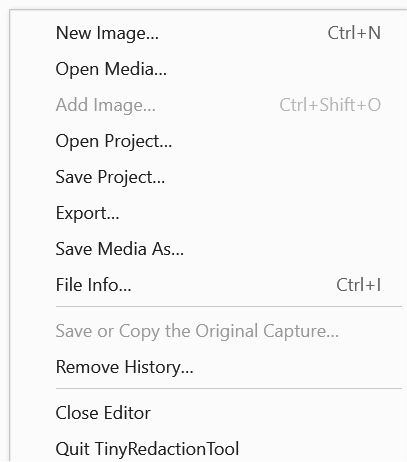
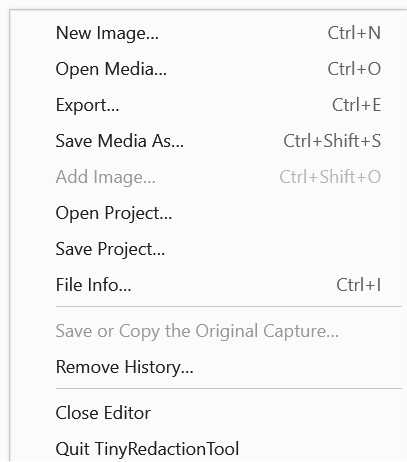
TinyRedactionTool 3.1.2: File menu order and Ctrl+O, Ctrl+E, Ctrl+Shift+S
New Image, Open Media (Ctrl+O), Export (Ctrl+E), Save Media As (Ctrl+Shift+S),
Add Image, Open Project, Save Project, File Info.

diff --git a/Desktop/MainWindow.xaml b/Desktop/MainWindow.xaml
@@ -1,5 +1,5 @@
 <Window x:Class="TinyRedaction.Desktop.MainWindow" xmlns="http://schemas.microsoft.com/winfx/2006/xaml/presentation" xmlns:x="http://schemas.microsoft.com/winfx/2006/xaml" xmlns:local="clr-namespace:TinyRedaction.Desktop"
- Title="TinyRedactionTool 3.1.1" Icon="Assets/icon.ico" Width="1240" Height="800" MinWidth="900" MinHeight="580" WindowState="Maximized" Background="{DynamicResource Background}" Foreground="{DynamicResource Foreground}" PreviewKeyDown="WindowKeyDown" AllowDrop="True" DragOver="MediaDragOver" DragEnter="MediaDragOver" Drop="MediaDropped">
+ Title="TinyRedactionTool 3.1.2" Icon="Assets/icon.ico" Width="1240" Height="800" MinWidth="900" MinHeight="580" WindowState="Maximized" Background="{DynamicResource Background}" Foreground="{DynamicResource Foreground}" PreviewKeyDown="WindowKeyDown" AllowDrop="True" DragOver="MediaDragOver" DragEnter="MediaDragOver" Drop="MediaDropped">
  <!-- Editor layout: menu bar, one row of icon buttons, options bar, workspace, status bar. -->
  <Grid>
  <DockPanel>
@@ -12,14 +12,15 @@
    <MenuItem Header="_File">
     <!-- 0.26.0 (David): a blank picture to draw on and paste onto. -->
     <MenuItem Header="_New Image…" InputGestureText="Ctrl+N" Click="NewPicture"/>
-    <MenuItem Header="_Open Media…" Click="OpenMedia"/>
+    <!-- 3.1.2 (David): this order, with Ctrl+O, Ctrl+E and Ctrl+Shift+S. -->
+    <MenuItem Header="_Open Media…" InputGestureText="Ctrl+O" Click="OpenMedia"/>
+    <MenuItem Header="_Export…" InputGestureText="Ctrl+E" Click="ExportImage" IsEnabled="{Binding IsEnabled, ElementName=ExportButton}"/>
+    <!-- 0.18.0 (David): the file as it is. -->
+    <MenuItem x:Name="SaveMediaMenuItem" Header="Save _Media As…" InputGestureText="Ctrl+Shift+S" Click="SaveMediaAs" IsEnabled="False" ToolTip="Save a Copy as It Is, Without Redactions or Edits"/>
     <!-- 0.26.1 (David): pictures onto the open one, without closing it. 0.27.0: "Add Image". -->
     <MenuItem Header="A_dd Image…" InputGestureText="Ctrl+Shift+O" Click="AddPictureFiles" IsEnabled="{Binding IsEnabled, ElementName=AddImageButton}" ToolTip="Put Images onto This One, to Move and Size"/>
     <MenuItem Header="Open _Project…" Click="OpenProject"/>
     <MenuItem x:Name="SaveProjectMenuItem" Header="_Save Project…" Click="SaveProject" IsEnabled="False"/>
-    <MenuItem Header="_Export…" Click="ExportImage" IsEnabled="{Binding IsEnabled, ElementName=ExportButton}"/>
-    <!-- 0.18.0 (David): the file as it is. -->
-    <MenuItem x:Name="SaveMediaMenuItem" Header="Save _Media As…" Click="SaveMediaAs" IsEnabled="False" ToolTip="Save a Copy as It Is, Without Redactions or Edits"/>
     <!-- 0.23.0: what is written inside the file besides the picture, and what Export removes. -->
     <MenuItem Header="File _Info…" InputGestureText="Ctrl+I" Click="ShowFileInfo"/>
     <Separator/>

diff --git a/docs/help/TRT-Help.html b/docs/help/TRT-Help.html
@@ -429,6 +429,9 @@
  <tr><td><kbd>Ctrl</kbd>+<kbd>Alt</kbd>+<kbd>B</kbd></td><td>Show or hide the capture bar</td></tr>
  <tr><td><kbd>Ctrl</kbd>+<kbd>Alt</kbd>+<kbd>E</kbd></td><td>Open the editor</td></tr>
  <tr><td><kbd>Ctrl</kbd>+<kbd>N</kbd></td><td>New image</td></tr>
+ <tr><td><kbd>Ctrl</kbd>+<kbd>O</kbd></td><td>Open a picture or video</td></tr>
+ <tr><td><kbd>Ctrl</kbd>+<kbd>E</kbd></td><td>Export</td></tr>
+ <tr><td><kbd>Ctrl</kbd>+<kbd>Shift</kbd>+<kbd>S</kbd></td><td>Save Media As (a copy of the file as it is)</td></tr>
  <tr><td><kbd>Ctrl</kbd>+<kbd>Shift</kbd>+<kbd>O</kbd></td><td>Add an image onto this one</td></tr>
  <tr><td><kbd>Ctrl</kbd>+<kbd>C</kbd> / <kbd>Ctrl</kbd>+<kbd>V</kbd></td><td>Copy the picture with its redactions / paste a picture</td></tr>
  <tr><td><kbd>Ctrl</kbd>+<kbd>Shift</kbd>+<kbd>V</kbd></td><td>Paste a picture onto this one</td></tr>

diff --git a/Desktop/MainWindow.xaml.cs b/Desktop/MainWindow.xaml.cs
@@ -973,6 +973,10 @@ public partial class MainWindow : Window
         else if (Keyboard.Modifiers == ModifierKeys.Control && e.Key == Key.N) { NewPicture(sender, e); e.Handled = true; }
         else if (Keyboard.Modifiers == ModifierKeys.None && e.Key == Key.F1) { HelpManual.Open(this); e.Handled = true; }
         else if (Keyboard.Modifiers == (ModifierKeys.Control | ModifierKeys.Shift) && e.Key == Key.O) { AddPictureFiles(sender, e); e.Handled = true; }
+        // 3.1.2 (David): Ctrl+O open, Ctrl+E export, Ctrl+Shift+S save media as; only when the menu item is on.
+        else if (Keyboard.Modifiers == ModifierKeys.Control && e.Key == Key.O) { OpenMedia(sender, e); e.Handled = true; }
+        else if (Keyboard.Modifiers == ModifierKeys.Control && e.Key == Key.E) { if (ExportButton.IsEnabled) ExportImage(sender, e); e.Handled = true; }
+        else if (Keyboard.Modifiers == (ModifierKeys.Control | ModifierKeys.Shift) && e.Key == Key.S) { if (SaveMediaMenuItem.IsEnabled) SaveMediaAs(sender, e); e.Handled = true; }
         else if (Keyboard.Modifiers.HasFlag(ModifierKeys.Control) && e.Key == Key.Z) { Undo(sender, e); e.Handled = true; }
         else if (Keyboard.Modifiers.HasFlag(ModifierKeys.Control) && e.Key == Key.Y) { Redo(sender, e); e.Handled = true; }
         // 3.0.0 (David): layers, as in image editors: Ctrl+] up, Ctrl+[ down, Ctrl+D duplicate.
@@ -1046,5 +1050,5 @@ public partial class MainWindow : Window
     private void About(object sender, RoutedEventArgs e) => AboutWindow.Open(this, VersionText);
     private void OpenHelp(object sender, RoutedEventArgs e) => HelpManual.Open(this); // 3.0.0 (David)
     // 0.27.1 (David): the About box is the simple one (AboutWindow); this text is its version and description.
-    internal static string AboutText => "TinyRedactionTool 3.1.1\n" + AboutWindow.Description;
+    internal static string AboutText => "TinyRedactionTool 3.1.2\n" + AboutWindow.Description;
 }

diff --git a/Checks/Release300Checks.cs b/Checks/Release300Checks.cs
@@ -32,7 +32,7 @@ internal static class Release300Checks
         check(Regex.Matches(html, "color-scheme: dark;").Count >= 2 && html.Contains("scrollbar-color"), "in Dark, the manual's scroll bars are dark too");
         // The name Windows shows ("Open with", Task Manager, file properties): TinyRedactionTool, not the internal name.
         var details = System.Diagnostics.FileVersionInfo.GetVersionInfo(typeof(MainWindow).Assembly.Location);
-        check(details.FileDescription == "TinyRedactionTool" && details.ProductName == "TinyRedactionTool" && details.CompanyName == "David McCabe" && details.ProductVersion?.StartsWith("3.1.1") == true,
+        check(details.FileDescription == "TinyRedactionTool" && details.ProductName == "TinyRedactionTool" && details.CompanyName == "David McCabe" && details.ProductVersion?.StartsWith("3.1.2") == true,
             $"Windows calls the program TinyRedactionTool (description {details.FileDescription}, product {details.ProductName})");
         var savedRoot = PictureApp.SoftwareRoot; PictureApp.SoftwareRoot = @"Software\TRT-Checks-300";
         try
@@ -75,6 +75,7 @@ internal static class Release300Checks
             check(!ExplorerMenu.IsStale && !ExplorerMenu.Refresh(), "with the setting cleared, starting TRT adds nothing to the right-click menu");
         }
         finally { ExplorerMenu.ClassesRoot = savedClasses; Microsoft.Win32.Registry.CurrentUser.DeleteSubKeyTree(@"Software\TRT-Checks-311", false); }
-        check(MainWindow.AboutText.StartsWith("TinyRedactionTool 3.1.1\n", StringComparison.Ordinal), "the version is 3.1.1 (3.1.0 is published; the right-click repair came after)");
+        // 3.1.2: the File menu's order is checked in Release027Checks (with the other menu wording).
+        check(MainWindow.AboutText.StartsWith("TinyRedactionTool 3.1.2\n", StringComparison.Ordinal), "the version is 3.1.2 (3.1.1 is published; the File menu order came after)");
     }
 }

diff --git a/Checks/Release027Checks.cs b/Checks/Release027Checks.cs
@@ -108,7 +108,11 @@ internal static class Release027Checks
             List<MenuItem> All(ItemsControl parent) => parent.Items.OfType<MenuItem>().SelectMany(m => new[] { m }.Concat(All(m))).ToList();
             var items = All(menu); string Header(MenuItem m) => (m.Header as string ?? "").Replace("_", "");
             var file = menu.Items.OfType<MenuItem>().First(m => Header(m) == "File");
-            check(All(file).Select(Header).Take(3).SequenceEqual(["New Image…", "Open Media…", "Add Image…"]) && items.Any(m => Header(m) == "Paste onto Image") && items.Any(m => Header(m) == "Resize Image…")
+            // 3.1.2 (David): the File menu's order and shortcuts.
+            var fileItems = file.Items.OfType<MenuItem>().Take(8).Select(m => Header(m) + (string.IsNullOrEmpty(m.InputGestureText) ? "" : " " + m.InputGestureText)).ToArray();
+            check(fileItems.SequenceEqual(["New Image… Ctrl+N", "Open Media… Ctrl+O", "Export… Ctrl+E", "Save Media As… Ctrl+Shift+S", "Add Image… Ctrl+Shift+O", "Open Project…", "Save Project…", "File Info… Ctrl+I"]),
+                "the File menu reads New Image, Open Media (Ctrl+O), Export (Ctrl+E), Save Media As (Ctrl+Shift+S), Add Image, Open Project, Save Project, File Info: " + string.Join(" | ", fileItems));
+            check(items.Any(m => Header(m) == "Add Image…") && items.Any(m => Header(m) == "Paste onto Image") && items.Any(m => Header(m) == "Resize Image…")
                   && !items.Any(m => Header(m).Contains("picture", StringComparison.OrdinalIgnoreCase)),
                 $"the menus say Image (New Image, Add Image, Paste onto Image...), never picture ({string.Join(", ", items.Select(Header).Where(h => h.Contains("icture")))})");
             var lower = items.Where(m => m.Header is string h && LowerWords(h).Any()).Select(Header).ToList();

diff --git a/docs/TEST-RESULTS.md b/docs/TEST-RESULTS.md
@@ -1,13 +1,17 @@
-# Verification: 3.1.1, 9 November 2026
+# Verification: 3.1.2, 11 November 2026
 
-Status: **the release checks for this change passed (`--release-300-only` 21 checks, `--release-025-only` 44 checks), none failed.** Build: 0 errors, 0 warnings. The rest of the program is unchanged from 3.1.0, whose full run passed 1396 checks.
+Status: **the checks for this change passed (`--release-027-only` 20 checks, `--release-300-only` 21 checks), none failed.** Build: 0 errors, 0 warnings. The rest of the program is unchanged from 3.1.0, whose full run passed 1396 checks.
 
 ## What changed
-- "Open with TRT" in File Explorer's right-click menu: when it is switched on and TRT starts from a different .exe (a newer version, or the old one was deleted), TRT points the entry at itself (ExplorerMenu.Refresh, called beside PictureApp.Refresh and StartupEntry.Refresh when TRT starts). Before, an entry left by a deleted TRT gave "Application not found".
+- File menu order (David): New Image, Open Media (Ctrl+O), Export (Ctrl+E), Save Media As (Ctrl+Shift+S), Add Image, Open Project, Save Project, File Info. The new shortcuts do nothing when their menu item is greyed out. The Help manual's shortcut table lists them, and its File menu picture (docs/help/images/menu-file.png) was redrawn.
 
-## New checks (Release300Checks, on a throw-away registry key)
-- A fresh entry starts this TRT; an entry that starts a deleted TRT is noticed; a development run never rewrites it; rewriting points every format at this TRT; with the setting cleared, starting TRT adds nothing.
-- The version is 3.1.1.
+## New and changed checks
+- Release027Checks: the File menu's first eight items, in this order, with these shortcuts (replaces the 0.27.0 check that Add Image came third).
+- Release300Checks: the version is 3.1.2.
+
+## Not checked
+- Ctrl+O, Ctrl+E and Ctrl+Shift+S on the real keyboard (the checks cannot hold Ctrl; they check the menu wording).
+- The rest of the full suite (unchanged code).
 
 ## Package
-- TinyRedactionTool-3.1.1.exe, 117 MB, SHA-256 648B283B34246ED6FE5C3EA3B6BC85EEDA81E40D627D433869531465E4FCFA7E (product version 3.1.1).
+- TinyRedactionTool-3.1.2.exe, 117 MB, SHA-256 B154D79E31DD165FB47C2549A4E6472CA582B404E66BAAF7E63C74BFA3DAE019 (product version 3.1.2).

diff --git a/README.md b/README.md
@@ -10,10 +10,10 @@ Everything happens on your computer: no telemetry, no uploads, no online service
 
 ## Download
 
-Get **TinyRedactionTool-3.1.1.exe** from the [latest release](https://github.com/mccabedd/tinyredactiontool/releases/latest) and run it. It needs no installing.
+Get **TinyRedactionTool-3.1.2.exe** from the [latest release](https://github.com/mccabedd/tinyredactiontool/releases/latest) and run it. It needs no installing.
 
 - TRT 3.1 needs Microsoft's free **[.NET 10 Desktop Runtime](https://dotnet.microsoft.com/download/dotnet/10.0)** (Windows x64). If it is missing, Windows says so when TRT starts and offers to open the download page.
-- The file is not signed, so Windows SmartScreen may warn the first time. Check the download against `SHA256SUMS-v3.1.1.txt` in the release.
+- The file is not signed, so Windows SmartScreen may warn the first time. Check the download against `SHA256SUMS-v3.1.2.txt` in the release.
 - TRT v2.5.1 (the previous, self-contained version) is still available from its own release, and its source is in [history/v2.5.1](history/v2.5.1).
 
 ## What it does

diff --git a/CHANGELOG.md b/CHANGELOG.md
@@ -1,5 +1,8 @@
 # Changelog
 
+## 3.1.2 (November 2026)
+- File menu in a new order: New Image, Open Media (Ctrl+O), Export (Ctrl+E), Save Media As (Ctrl+Shift+S), Add Image, Open Project, Save Project, File Info.
+
 ## 3.1.1 (November 2026)
 - "Open with TRT" in the right-click menu follows TRT to a new .exe: an entry left by an older or deleted TRT ("Application not found") is fixed when TRT starts.
 
